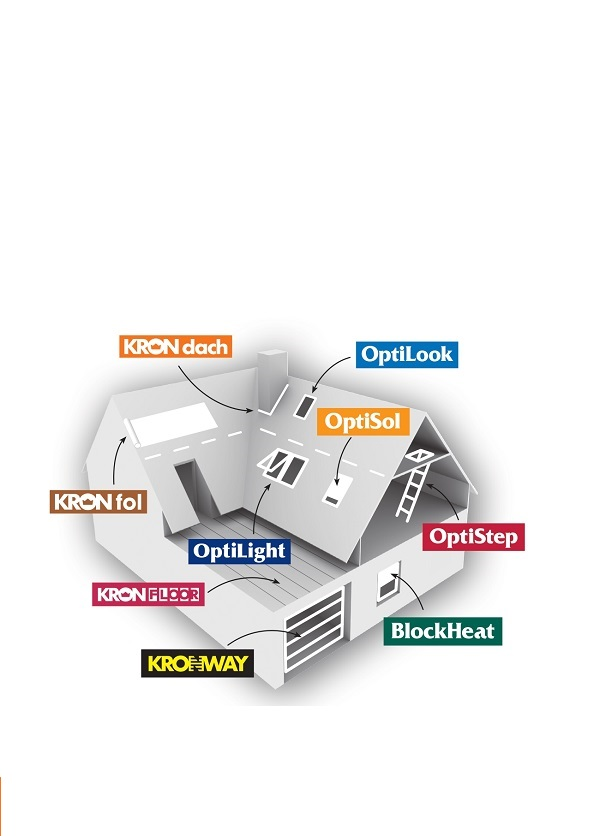
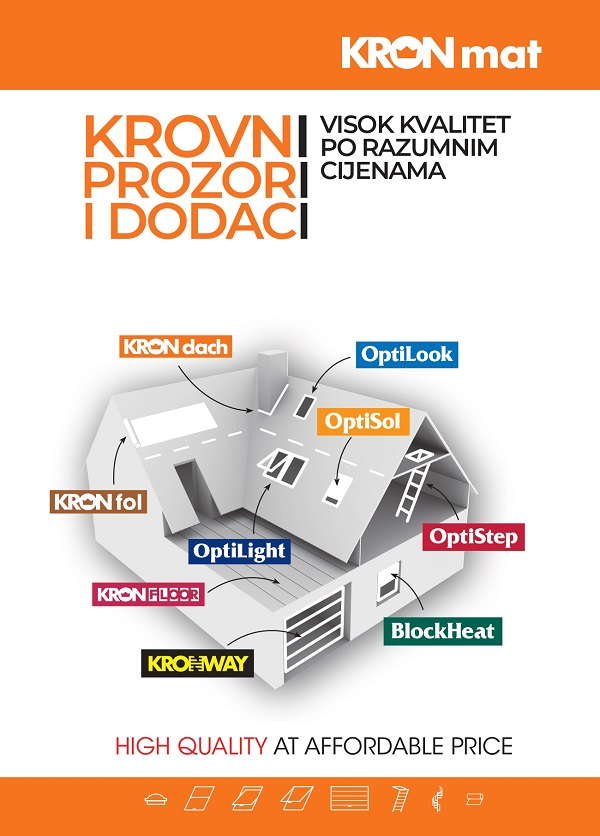
Medium image updated

Changed region(s): [[0.0, 0.0, 1.0, 0.311], [0.0, 0.8708, 1.0, 1.0]]

diff --git a/product6.html b/product6.html
@@ -123,7 +123,7 @@
     <div class="container-fluid p-0 pb-5">
         <div class="owl-carousel header-carousel position-relative">
             <div class="owl-carousel-item position-relative">
-                <img class="img-fluid" src="img/NewCarousel/KFNovaSlika.png" srcset="img/NewCarousel/KFNovaSlika.png 1920w, img/NewCarousel/KFNovaSlika_Small.jpg 320w, img/NewCarousel/KFNovaSlika1.png 600w" alt="">
+                <img class="img-fluid" src="img/NewCarousel/KFNovaSlika.png" srcset="img/NewCarousel/KFNovaSlika.png 1920w, img/NewCarousel/KFNovaSlika_Small.jpg 320w, img/NewCarousel/KFNovaSlika_Medium.png 600w" alt="">
             </div>
             <!--<div class="owl-carousel-item position-relative">
                 <img class="img-fluid" src="img/KrovneFolije3.jpg" alt="">
